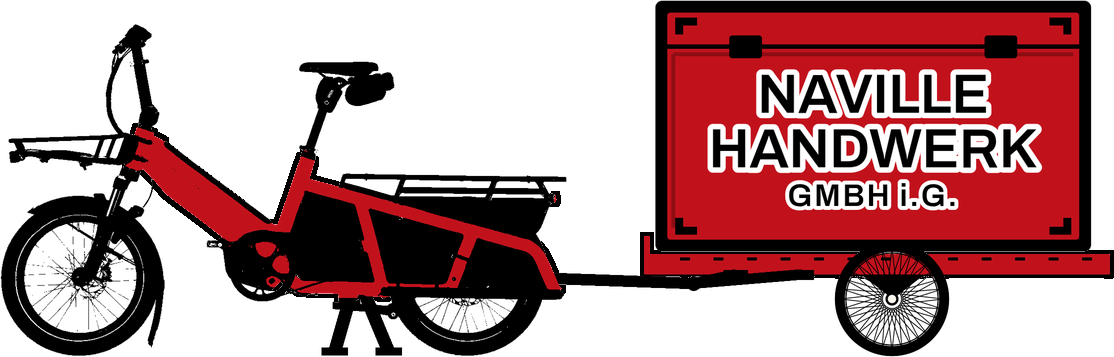
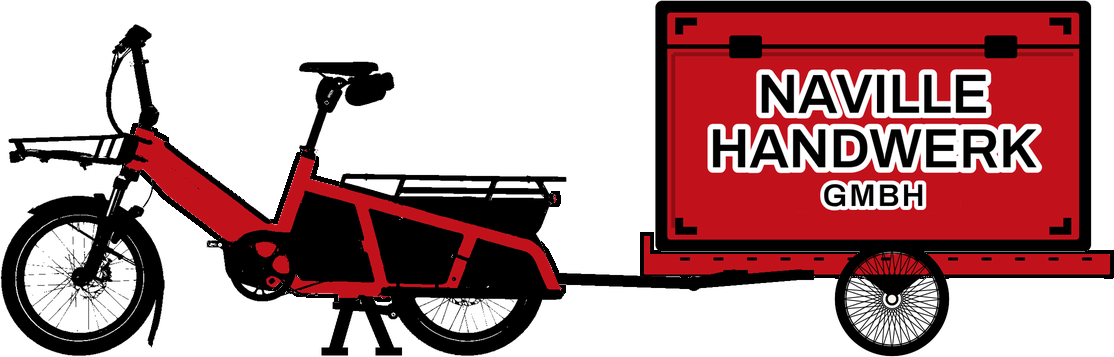
Gruendung vollzogen: i.G. ueberall entfernt (HR-Eintrag, Meldung Eric 2026-08-15)
Skript gruendung_ig_entfernen.py --apply (41 Stellen, 9 Dateien) plus die
Hand-Stellen: Impressum ohne Gruendungs-Vermerk, neu Handelsregister-Zeile +
UID CHE-334.176.319; index-Hero-Satz positiv umformuliert; FAQ
«Gruendungsphase» -> «Startphase»; Kopf-Emblem durch die i.G.-freie Fassung
ersetzt (1114x357, Quelle Design-Hub).

Changed region(s): [[0.702, 0.493, 0.8851, 0.6162]]

diff --git a/index.html b/index.html
@@ -1,7 +1,7 @@
 <!doctype html><html lang="de"><head><meta charset="utf-8">
 <meta name="viewport" content="width=device-width,initial-scale=1">
 <meta http-equiv="Content-Security-Policy" content="default-src 'self'; script-src 'self'; style-src 'self' 'unsafe-inline'; img-src 'self' data:; font-src 'self'; connect-src 'self'; object-src 'none'; base-uri 'self'; form-action 'self'">
-<title>Naville Handwerk GmbH i.G. – Kurzfristige Hilfe bei akutem Personalengpass</title>
+<title>Naville Handwerk GmbH – Kurzfristige Hilfe bei akutem Personalengpass</title>
 <meta name="description" content="Eric Naville, Elektroinstallateur EFZ – kurzfristige, verlässliche Aushilfe für Elektro- und Handwerksbetriebe im Raum Bern.">
 <link rel="stylesheet" href="basis.css">
 <style>
@@ -83,13 +83,13 @@
 <link rel="manifest" href="site.webmanifest">
 <meta name="theme-color" content="#EFEEE8">
 <meta property="og:type" content="website">
-<meta property="og:site_name" content="Naville Handwerk GmbH i.G.">
+<meta property="og:site_name" content="Naville Handwerk GmbH">
 <meta property="og:locale" content="de_CH">
-<meta property="og:title" content="Naville Handwerk GmbH i.G. – Kurzfristige Hilfe bei akutem Personalengpass">
+<meta property="og:title" content="Naville Handwerk GmbH – Kurzfristige Hilfe bei akutem Personalengpass">
 <meta property="og:description" content="Eric Naville, Elektroinstallateur EFZ – kurzfristige, verlässliche Aushilfe für Elektro- und Handwerksbetriebe im Raum Bern.">
 <meta property="og:url" content="https://naville-handwerk.ch/">
 <meta name="twitter:card" content="summary">
-<meta name="twitter:title" content="Naville Handwerk GmbH i.G. – Kurzfristige Hilfe bei akutem Personalengpass">
+<meta name="twitter:title" content="Naville Handwerk GmbH – Kurzfristige Hilfe bei akutem Personalengpass">
 <meta name="twitter:description" content="Eric Naville, Elektroinstallateur EFZ – kurzfristige, verlässliche Aushilfe für Elektro- und Handwerksbetriebe im Raum Bern.">
 <!-- Icons: Font Awesome Free (CC BY 4.0, fontawesome.com) · Bootstrap Icons (MIT) · Material Symbols (Apache-2.0). Schrift: Archivo (SIL OFL 1.1). -->
 </head>
@@ -113,7 +113,7 @@
     <div class="kick mono">Personalverleih im Handwerk · Raum Bern</div>
     <h1 class="disp">Grüesdi! Ich bin <span class="red">Eric Naville.</span></h1>
     <p class="lead">Gelernter Elektroinstallateur EFZ. Wenn dir kurzfristig eine Fachkraft fehlt, springe ich ein – top ausgerüstet, flexibel, ordentlich und zuverlässig.</p>
-    <p class="lead" style="font-size:15px;color:var(--grey);margin-top:-4px">Mein Betrieb, die <b>Naville Handwerk GmbH</b>, befindet sich aktuell noch in Gründung <b>(i.G.)</b>.</p>
+    <p class="lead" style="font-size:15px;color:var(--grey);margin-top:-4px">Mein Betrieb, die <b>Naville Handwerk GmbH</b>, ist im Handelsregister eingetragen.</p>
     <p class="slogan">Der <span class="red">Notstromer</span> für deine Elektrikerfirma.</p>
     <div class="ctas"><a class="btn red" href="#kontakt">Schreib mir</a><a class="btn ghost" href="#wann">Wann ich helfe</a></div>
   </div>
@@ -145,7 +145,7 @@
     </div>
     <div class="psarrow" aria-hidden="true"><svg class="brace" viewBox="0 0 24 100" preserveAspectRatio="none" fill="none"><path d="M7 3 C11 3 10.5 7 10.5 15 L10.5 42 C10.5 48 12 50 21 50 C12 50 10.5 52 10.5 58 L10.5 85 C10.5 93 11 97 7 97" stroke="#C1121C" stroke-width="2.6" stroke-linecap="round" stroke-linejoin="round" vector-effect="non-scaling-stroke"/></svg><svg class="downarr" viewBox="0 0 32 64" fill="none"><path d="M16 3 V54" stroke="#C1121C" stroke-width="5" stroke-linecap="round"/><path d="M5 42 L16 60 L27 42" stroke="#C1121C" stroke-width="5" stroke-linecap="round" stroke-linejoin="round"/></svg></div>
     <div class="solcol">
-      <div class="card sol"><div class="tx"><div class="t mono">Aushilfe</div><h3>Naville Handwerk GmbH i.G.</h3><p>Schnelle, unkomplizierte Entlastung.</p></div><div class="ic"><svg viewBox="-160 0 800 512" fill="none"><g stroke="#C1121C" stroke-width="20" stroke-linecap="round"><path d="M-150 150 H-30"/><path d="M-150 250 H10"/><path d="M-150 350 H-50"/></g><path fill="#22242A" d="M400 96a48 48 0 1 0 0-96 48 48 0 1 0 0 96zm27.2 64l-61.8-48.8c-17.3-13.6-41.7-13.8-59.1-.3l-83.1 64.2c-30.7 23.8-28.5 70.8 4.3 91.6L288 305.1 288 416c0 17.7 14.3 32 32 32s32-14.3 32-32l0-128c0-10.7-5.3-20.7-14.2-26.6L295 232.9l60.3-48.5L396 217c5.7 4.5 12.7 7 20 7l64 0c17.7 0 32-14.3 32-32s-14.3-32-32-32l-52.8 0zM56 384a72 72 0 1 1 144 0A72 72 0 1 1 56 384zm200 0A128 128 0 1 0 0 384a128 128 0 1 0 256 0zm184 0a72 72 0 1 1 144 0 72 72 0 1 1 -144 0zm200 0a128 128 0 1 0 -256 0 128 128 0 1 0 256 0z"/></svg></div></div>
+      <div class="card sol"><div class="tx"><div class="t mono">Aushilfe</div><h3>Naville Handwerk GmbH</h3><p>Schnelle, unkomplizierte Entlastung.</p></div><div class="ic"><svg viewBox="-160 0 800 512" fill="none"><g stroke="#C1121C" stroke-width="20" stroke-linecap="round"><path d="M-150 150 H-30"/><path d="M-150 250 H10"/><path d="M-150 350 H-50"/></g><path fill="#22242A" d="M400 96a48 48 0 1 0 0-96 48 48 0 1 0 0 96zm27.2 64l-61.8-48.8c-17.3-13.6-41.7-13.8-59.1-.3l-83.1 64.2c-30.7 23.8-28.5 70.8 4.3 91.6L288 305.1 288 416c0 17.7 14.3 32 32 32s32-14.3 32-32l0-128c0-10.7-5.3-20.7-14.2-26.6L295 232.9l60.3-48.5L396 217c5.7 4.5 12.7 7 20 7l64 0c17.7 0 32-14.3 32-32s-14.3-32-32-32l-52.8 0zM56 384a72 72 0 1 1 144 0A72 72 0 1 1 56 384zm200 0A128 128 0 1 0 0 384a128 128 0 1 0 256 0zm184 0a72 72 0 1 1 144 0 72 72 0 1 1 -144 0zm200 0a128 128 0 1 0 -256 0 128 128 0 1 0 256 0z"/></svg></div></div>
     </div>
   </div>
 </section>
@@ -193,7 +193,7 @@
   <img src="bilder/emblem.png" alt="Naville Handwerk – Lastenvelo mit Firmenschild">
   <p class="fc">Der <span class="red">Notstromer</span> für Berner Elektrikerfirmen</p>
 </div>
-<footer class="foot">Naville Handwerk GmbH i.G. · 3005 Bern · <a href="mailto:info@naville-handwerk.ch">info@naville-handwerk.ch</a><br>Personalverleih im Handwerk · Raum Bern · <a href="impressum.html">Impressum</a></footer>
+<footer class="foot">Naville Handwerk GmbH · 3005 Bern · <a href="mailto:info@naville-handwerk.ch">info@naville-handwerk.ch</a><br>Personalverleih im Handwerk · Raum Bern · <a href="impressum.html">Impressum</a></footer>
 <script src="verfuegbarkeit.js"></script>
 <script src="banner.js"></script>
 </body></html>

diff --git a/faq.html b/faq.html
@@ -1,8 +1,8 @@
 <!doctype html><html lang="de"><head><meta charset="utf-8">
 <meta name="viewport" content="width=device-width,initial-scale=1">
 <meta http-equiv="Content-Security-Policy" content="default-src 'self'; script-src 'self'; style-src 'self' 'unsafe-inline'; img-src 'self' data:; font-src 'self'; connect-src 'self'; object-src 'none'; base-uri 'self'; form-action 'self'">
-<title>Häufige Fragen – Naville Handwerk GmbH i.G.</title>
-<meta name="description" content="Antworten für Einsatzbetriebe: Versicherung, Abrechnung, Kosten, Steuern und was der Notstromer-Tarif ist – beim Personalverleih durch Naville Handwerk GmbH i.G., Raum Bern.">
+<title>Häufige Fragen – Naville Handwerk GmbH</title>
+<meta name="description" content="Antworten für Einsatzbetriebe: Versicherung, Abrechnung, Kosten, Steuern und was der Notstromer-Tarif ist – beim Personalverleih durch Naville Handwerk GmbH, Raum Bern.">
 <link rel="stylesheet" href="basis.css">
 <style>
 .phead{padding-block:60px 8px}
@@ -43,13 +43,13 @@ details[open] summary{color:var(--red)}
 <link rel="manifest" href="site.webmanifest">
 <meta name="theme-color" content="#EFEEE8">
 <meta property="og:type" content="website">
-<meta property="og:site_name" content="Naville Handwerk GmbH i.G.">
+<meta property="og:site_name" content="Naville Handwerk GmbH">
 <meta property="og:locale" content="de_CH">
-<meta property="og:title" content="Häufige Fragen – Naville Handwerk GmbH i.G.">
+<meta property="og:title" content="Häufige Fragen – Naville Handwerk GmbH">
 <meta property="og:description" content="Antworten für Einsatzbetriebe: Versicherung, Abrechnung, Kosten, Steuern und was der Notstromer-Tarif ist – Personalverleih, Raum Bern.">
 <meta property="og:url" content="https://naville-handwerk.ch/faq.html">
 <meta name="twitter:card" content="summary">
-<meta name="twitter:title" content="Häufige Fragen – Naville Handwerk GmbH i.G.">
+<meta name="twitter:title" content="Häufige Fragen – Naville Handwerk GmbH">
 <meta name="twitter:description" content="Antworten für Einsatzbetriebe: Versicherung, Abrechnung, Kosten, Steuern und was der Notstromer-Tarif ist – Personalverleih, Raum Bern.">
 </head>
 <body>
@@ -190,7 +190,7 @@ details[open] summary{color:var(--red)}
         <details>
           <summary>Kann ich einzelne Tage herauspicken – oder buche ich besser am Stück?</summary>
           <div class="a">
-            <p>Kannst du – reserviert wird ja nichts, du fragst und ich sage zu oder ab. Nur bin ich ehrlich mit dir: Ich stehe noch am Anfang. In der Gründungsphase meiner GmbH halte ich die Tarife bewusst tief und habe erst wenige Kontakte – darum bin ich darauf angewiesen, möglichst <b>regelmässig und zusammenhängend</b> zu arbeiten, um überhaupt auf genügend Umsatz zu kommen.</p>
+            <p>Kannst du – reserviert wird ja nichts, du fragst und ich sage zu oder ab. Nur bin ich ehrlich mit dir: Ich stehe noch am Anfang. In der Startphase meiner GmbH halte ich die Tarife bewusst tief und habe erst wenige Kontakte – darum bin ich darauf angewiesen, möglichst <b>regelmässig und zusammenhängend</b> zu arbeiten, um überhaupt auf genügend Umsatz zu kommen.</p>
             <p>Wenn einzelne Tage herausgepickt werden – Normaltarif oder Notstromer – und dazwischen viele Lücken bleiben, macht mir das gerade jetzt zu schaffen: Die Lücken lassen sich kaum füllen, weil es für Einsatzbetriebe wenig attraktiv ist, jemanden sehr unregelmässig zu beschäftigen. Ein paar Tage am Stück oder ein durchgehender Einsatz helfen mir deshalb im Moment am meisten.</p>
             <p>Das ist kein Muss – frag ruhig so, wie es dir passt. Und sobald ich mehr Kontakte oder etwas höhere Tarife habe, trägt sich auch das Herauspicken einzelner Tage für meinen Umsatz – dann sind verstreute Tage kein Thema mehr.</p>
           </div>
@@ -251,7 +251,7 @@ details[open] summary{color:var(--red)}
   <img src="bilder/emblem.png" alt="Naville Handwerk – Lastenvelo mit Anhänger und Firmenschild">
   <p class="fc">Der <span class="red">Notstromer</span> für Berner Elektrikerfirmen</p>
 </div>
-<footer class="foot">Naville Handwerk GmbH i.G. · 3005 Bern · <a href="mailto:info@naville-handwerk.ch">info@naville-handwerk.ch</a> · <a href="impressum.html">Impressum</a></footer>
+<footer class="foot">Naville Handwerk GmbH · 3005 Bern · <a href="mailto:info@naville-handwerk.ch">info@naville-handwerk.ch</a> · <a href="impressum.html">Impressum</a></footer>
 <script src="verfuegbarkeit.js"></script>
 <script src="banner.js"></script>
 </body></html>

diff --git a/leistungen.html b/leistungen.html
@@ -1,7 +1,7 @@
 <!doctype html><html lang="de"><head><meta charset="utf-8">
 <meta name="viewport" content="width=device-width,initial-scale=1">
 <meta http-equiv="Content-Security-Policy" content="default-src 'self'; script-src 'self'; style-src 'self' 'unsafe-inline'; img-src 'self' data:; font-src 'self'; connect-src 'self'; object-src 'none'; base-uri 'self'; form-action 'self'">
-<title>Was du von mir hast – Naville Handwerk GmbH i.G.</title>
+<title>Was du von mir hast – Naville Handwerk GmbH</title>
 <meta name="description" content="Was du von mir als Aushilfe im Handwerk hast – und was nicht. Transparent aufgelistet: Vorteile für deinen Betrieb und ehrliche Grenzen.">
 <link rel="stylesheet" href="basis.css">
 <style>
@@ -63,13 +63,13 @@
 <link rel="manifest" href="site.webmanifest">
 <meta name="theme-color" content="#EFEEE8">
 <meta property="og:type" content="website">
-<meta property="og:site_name" content="Naville Handwerk GmbH i.G.">
+<meta property="og:site_name" content="Naville Handwerk GmbH">
 <meta property="og:locale" content="de_CH">
-<meta property="og:title" content="Was du von mir hast – Naville Handwerk GmbH i.G.">
+<meta property="og:title" content="Was du von mir hast – Naville Handwerk GmbH">
 <meta property="og:description" content="Was du von mir als Aushilfe im Handwerk hast – und was nicht. Transparent aufgelistet.">
 <meta property="og:url" content="https://naville-handwerk.ch/leistungen.html">
 <meta name="twitter:card" content="summary">
-<meta name="twitter:title" content="Was du von mir hast – Naville Handwerk GmbH i.G.">
+<meta name="twitter:title" content="Was du von mir hast – Naville Handwerk GmbH">
 <meta name="twitter:description" content="Was du von mir als Aushilfe im Handwerk hast – und was nicht. Transparent aufgelistet.">
 <!-- Icons: Font Awesome Free (CC BY 4.0, fontawesome.com) · Bootstrap Icons (MIT) · Material Symbols (Apache-2.0). Schrift: Archivo (SIL OFL 1.1). -->
 </head>
@@ -142,7 +142,7 @@
       <div class="tsub">Damit du es vorher weisst</div>
       <ul class="tlist">
         <li><span class="mk">✗</span><span class="tx"><b>Der tiefe Ansatz ist ein Startpreis, kein Dauerversprechen.</b> Meine GmbH ist neu – darum steige ich bewusst günstig ein und liege für eine gelernte Fachkraft im Verleih am unteren Rand. Sobald der Betrieb steht, wird der Ansatz steigen. Wer dauerhaft die billigste Lösung sucht, ist bei mir also falsch; wer verlässliche Arbeit zu einem offen kalkulierten Preis sucht, richtig.</span></li>
-        <li><span class="mk">✗</span><span class="tx"><b>Strikt B2B.</b> Naville Handwerk GmbH i.G. verleiht nur an Betriebe – keine direkte Ausleihe an Endkunden.</span></li>
+        <li><span class="mk">✗</span><span class="tx"><b>Strikt B2B.</b> Naville Handwerk GmbH verleiht nur an Betriebe – keine direkte Ausleihe an Endkunden.</span></li>
         <li><span class="mk">✗</span><span class="tx"><b>Keine Zusatzausbildung</b> als Teamleiter oder Sicherheitsberater – ich bin die Fachkraft vor Ort, nicht eine Führungsrolle oder Kontrollorgan.</span></li>
         <li><span class="mk">✗</span><span class="tx"><b>Bevorzugt keine Lehrlingsbetreuung.</b> Gerade beim Notstromer geht es ums Vorankommen der Baustelle – da bin ich als zusätzliche Fachkraft eingesetzt, nicht als Ausbildner. Lehrlinge sind besser bei Bezugspersonen aufgehoben, die sie kennen und die für das Ausbilden ausgebildet sind.</span></li>
         <li><span class="mk">✗</span><span class="tx"><b>Kein eigenes Firmenfahrzeug.</b> Ich bringe nur Velo und Veloanhänger mit; Auto kann ich fahren (Kat. B) – für grössere Mengen Material oder weiter entfernte Baustellen braucht es also eines deiner Fahrzeuge.</span></li>
@@ -163,7 +163,7 @@
   <img src="bilder/emblem.png" alt="Naville Handwerk – Lastenvelo mit Anhänger und Firmenschild">
   <p class="fc">Der <span class="red">Notstromer</span> für Berner Elektrikerfirmen</p>
 </div>
-<footer class="foot">Naville Handwerk GmbH i.G. · 3005 Bern · <a href="mailto:info@naville-handwerk.ch">info@naville-handwerk.ch</a><br>Personalverleih im Handwerk · Raum Bern · <a href="impressum.html">Impressum</a></footer>
+<footer class="foot">Naville Handwerk GmbH · 3005 Bern · <a href="mailto:info@naville-handwerk.ch">info@naville-handwerk.ch</a><br>Personalverleih im Handwerk · Raum Bern · <a href="impressum.html">Impressum</a></footer>
 <script src="verfuegbarkeit.js"></script>
 <script src="banner.js"></script>
 </body></html>

diff --git a/impressum.html b/impressum.html
@@ -1,8 +1,8 @@
 <!doctype html><html lang="de"><head><meta charset="utf-8">
 <meta name="viewport" content="width=device-width,initial-scale=1">
 <meta http-equiv="Content-Security-Policy" content="default-src 'self'; script-src 'self'; style-src 'self' 'unsafe-inline'; img-src 'self' data:; font-src 'self'; connect-src 'self'; object-src 'none'; base-uri 'self'; form-action 'self'">
-<title>Impressum – Naville Handwerk GmbH i.G.</title>
-<meta name="description" content="Impressum und rechtliche Angaben der Naville Handwerk GmbH i.G., 3005 Bern.">
+<title>Impressum – Naville Handwerk GmbH</title>
+<meta name="description" content="Impressum und rechtliche Angaben der Naville Handwerk GmbH, 3005 Bern.">
 <link rel="stylesheet" href="basis.css">
 <style>
 .phead{padding-block:60px 6px}
@@ -27,14 +27,14 @@
 <link rel="manifest" href="site.webmanifest">
 <meta name="theme-color" content="#EFEEE8">
 <meta property="og:type" content="website">
-<meta property="og:site_name" content="Naville Handwerk GmbH i.G.">
+<meta property="og:site_name" content="Naville Handwerk GmbH">
 <meta property="og:locale" content="de_CH">
-<meta property="og:title" content="Impressum – Naville Handwerk GmbH i.G.">
-<meta property="og:description" content="Impressum und rechtliche Angaben der Naville Handwerk GmbH i.G., 3005 Bern.">
+<meta property="og:title" content="Impressum – Naville Handwerk GmbH">
+<meta property="og:description" content="Impressum und rechtliche Angaben der Naville Handwerk GmbH, 3005 Bern.">
 <meta property="og:url" content="https://naville-handwerk.ch/impressum.html">
 <meta name="twitter:card" content="summary">
-<meta name="twitter:title" content="Impressum – Naville Handwerk GmbH i.G.">
-<meta name="twitter:description" content="Impressum und rechtliche Angaben der Naville Handwerk GmbH i.G., 3005 Bern.">
+<meta name="twitter:title" content="Impressum – Naville Handwerk GmbH">
+<meta name="twitter:description" content="Impressum und rechtliche Angaben der Naville Handwerk GmbH, 3005 Bern.">
 </head>
 <body>
 <div class="availbar" id="availbar" hidden>
@@ -61,7 +61,7 @@
 
     <div class="icard">
       <h2>Verantwortlich / Firma</h2>
-      <p class="row"><b>Naville Handwerk GmbH i.G.</b> <span class="lbl">(in Gründung – Handelsregister-Eintrag ausstehend)</span></p>
+      <p class="row"><b>Naville Handwerk GmbH</b></p>
       <p class="row">Eric Naville (Inhaber und Geschäftsführer)</p>
       <p class="row"><span class="lbl">Sitz:</span> 3005 Bern, Schweiz</p>
       <p class="row"><span class="lbl">Strasse / Nr.:</span> <span class="todo">noch zu ergänzen</span></p>
@@ -75,7 +75,8 @@
 
     <div class="icard">
       <h2>Register &amp; Steuern</h2>
-      <p class="row"><span class="lbl">Handelsregister:</span> <span class="todo">UID/CHE-Nummer nach Eintrag ergänzen</span></p>
+      <p class="row"><span class="lbl">Handelsregister:</span> eingetragen (Handelsregisteramt des Kantons Bern)</p>
+      <p class="row"><span class="lbl">UID:</span> CHE-334.176.319</p>
       <p class="row"><span class="lbl">MWST-Nummer:</span> <span class="todo">nach Registrierung ergänzen (CHE-… MWST)</span></p>
       <p class="row"><span class="lbl">Zweck:</span> Personalverleih im Handwerk (Raum Bern)</p>
     </div>
@@ -94,7 +95,7 @@
 
     <div class="icard">
       <h2>Urheberrecht</h2>
-      <p>Texte, Grafiken und der Preisrechner auf dieser Seite stammen von Naville Handwerk GmbH i.G.. Weiterverwendung nur mit Einverständnis.</p>
+      <p>Texte, Grafiken und der Preisrechner auf dieser Seite stammen von Naville Handwerk GmbH. Weiterverwendung nur mit Einverständnis.</p>
     </div>
 
   </div>
@@ -104,7 +105,7 @@
   <img src="bilder/emblem.png" alt="Naville Handwerk – Lastenvelo mit Anhänger und Firmenschild">
   <p class="fc">Der <span class="red">Notstromer</span> für Berner Elektrikerfirmen</p>
 </div>
-<footer class="foot">Naville Handwerk GmbH i.G. · 3005 Bern · <a href="mailto:info@naville-handwerk.ch">info@naville-handwerk.ch</a> · <a href="index.html">Startseite</a></footer>
+<footer class="foot">Naville Handwerk GmbH · 3005 Bern · <a href="mailto:info@naville-handwerk.ch">info@naville-handwerk.ch</a> · <a href="index.html">Startseite</a></footer>
 <script src="verfuegbarkeit.js"></script>
 <script src="banner.js"></script>
 </body></html>

diff --git a/kalender.html b/kalender.html
@@ -1,7 +1,7 @@
 <!doctype html><html lang="de"><head><meta charset="utf-8">
 <meta name="viewport" content="width=device-width,initial-scale=1">
 <meta http-equiv="Content-Security-Policy" content="default-src 'self'; script-src 'self' 'unsafe-inline'; style-src 'self' 'unsafe-inline'; img-src 'self' data:; font-src 'self'; connect-src 'self'; object-src 'none'; base-uri 'self'; form-action 'self'">
-<title>Jahreskalender – Naville Handwerk GmbH i.G.</title>
+<title>Jahreskalender – Naville Handwerk GmbH</title>
 <meta name="description" content="Wann Eric Naville frei ist: freie Tage antippen und mit einem Klick per E-Mail anfragen. Kein Buchungssystem – du fragst, ich sage zu oder ab. Raum Bern.">
 <link rel="stylesheet" href="basis.css">
 <style>
@@ -86,13 +86,13 @@
 <link rel="manifest" href="site.webmanifest">
 <meta name="theme-color" content="#EFEEE8">
 <meta property="og:type" content="website">
-<meta property="og:site_name" content="Naville Handwerk GmbH i.G.">
+<meta property="og:site_name" content="Naville Handwerk GmbH">
 <meta property="og:locale" content="de_CH">
-<meta property="og:title" content="Jahreskalender – Naville Handwerk GmbH i.G.">
+<meta property="og:title" content="Jahreskalender – Naville Handwerk GmbH">
 <meta property="og:description" content="Wann Eric Naville frei ist: freie Tage antippen und per E-Mail anfragen. Kein Buchungssystem, Raum Bern.">
 <meta property="og:url" content="https://naville-handwerk.ch/kalender.html">
 <meta name="twitter:card" content="summary">
-<meta name="twitter:title" content="Jahreskalender – Naville Handwerk GmbH i.G.">
+<meta name="twitter:title" content="Jahreskalender – Naville Handwerk GmbH">
 <meta name="twitter:description" content="Wann Eric Naville frei ist: freie Tage antippen und per E-Mail anfragen. Kein Buchungssystem, Raum Bern.">
 </head>
 <body>
@@ -164,7 +164,7 @@
   <img src="bilder/emblem.png" alt="Naville Handwerk – Lastenvelo mit Anhänger und Firmenschild">
   <p class="fc">Der <span class="red">Notstromer</span> für Berner Elektrikerfirmen</p>
 </div>
-<footer class="foot">Naville Handwerk GmbH i.G. · 3005 Bern · <a href="mailto:info@naville-handwerk.ch">info@naville-handwerk.ch</a> · <a href="impressum.html">Impressum</a></footer>
+<footer class="foot">Naville Handwerk GmbH · 3005 Bern · <a href="mailto:info@naville-handwerk.ch">info@naville-handwerk.ch</a> · <a href="impressum.html">Impressum</a></footer>
 
 <script src="kalender.js"></script>
 <script src="verfuegbarkeit.js"></script>

diff --git a/preisrechner.html b/preisrechner.html
@@ -80,14 +80,14 @@ button{max-width:100%;white-space:normal}
 <link rel="manifest" href="site.webmanifest">
 <meta name="theme-color" content="#EFEEE8">
 <meta property="og:type" content="website">
-<meta property="og:site_name" content="Naville Handwerk GmbH i.G.">
+<meta property="og:site_name" content="Naville Handwerk GmbH">
 <meta property="og:locale" content="de_CH">
 <meta property="og:title" content="Stundenansatz-Rechner Personalverleih (Schweiz)">
-<meta property="og:description" content="Naville Handwerk GmbH i.G. – Personalverleih im Handwerk, Raum Bern.">
+<meta property="og:description" content="Naville Handwerk GmbH – Personalverleih im Handwerk, Raum Bern.">
 <meta property="og:url" content="https://naville-handwerk.ch/preisrechner.html">
 <meta name="twitter:card" content="summary">
 <meta name="twitter:title" content="Stundenansatz-Rechner Personalverleih (Schweiz)">
-<meta name="twitter:description" content="Naville Handwerk GmbH i.G. – Personalverleih im Handwerk, Raum Bern.">
+<meta name="twitter:description" content="Naville Handwerk GmbH – Personalverleih im Handwerk, Raum Bern.">
 </head>
 <body>
 <div class="availbar" id="availbar" hidden>
@@ -516,7 +516,7 @@ applyCanton();applyAge();fillBerufe();calc();
   <img src="bilder/emblem.png" alt="Naville Handwerk – Lastenvelo mit Anhänger und Firmenschild">
   <p class="fc">Der <span class="red">Notstromer</span> für Berner Elektrikerfirmen</p>
 </div>
-<footer class="foot">Naville Handwerk GmbH i.G. · 3005 Bern · <a href="mailto:info@naville-handwerk.ch">info@naville-handwerk.ch</a> · <a href="impressum.html">Impressum</a></footer>
+<footer class="foot">Naville Handwerk GmbH · 3005 Bern · <a href="mailto:info@naville-handwerk.ch">info@naville-handwerk.ch</a> · <a href="impressum.html">Impressum</a></footer>
 <script src="verfuegbarkeit.js"></script>
 <script src="banner.js"></script>
 </body>

diff --git a/404.html b/404.html
@@ -1,7 +1,7 @@
 <!doctype html><html lang="de"><head><meta charset="utf-8">
 <meta name="viewport" content="width=device-width,initial-scale=1">
 <meta http-equiv="Content-Security-Policy" content="default-src 'self'; script-src 'self'; style-src 'self' 'unsafe-inline'; img-src 'self' data:; font-src 'self'; connect-src 'self'; object-src 'none'; base-uri 'self'; form-action 'self'">
-<title>Seite nicht gefunden – Naville Handwerk GmbH i.G.</title>
+<title>Seite nicht gefunden – Naville Handwerk GmbH</title>
 <link rel="icon" type="image/svg+xml" href="favicon.svg">
 <link rel="icon" type="image/png" sizes="32x32" href="bilder/favicon-32.png">
 <link rel="apple-touch-icon" href="bilder/apple-touch-icon.png">
@@ -38,7 +38,7 @@ p{color:var(--ink2);font-size:16px;max-width:40ch;margin:0 auto}
     <a class="btn" href="/">Zur Startseite</a>
   </div>
 </div>
-<footer class="foot">Naville Handwerk GmbH i.G. · 3005 Bern · <a href="mailto:info@naville-handwerk.ch">info@naville-handwerk.ch</a></footer>
+<footer class="foot">Naville Handwerk GmbH · 3005 Bern · <a href="mailto:info@naville-handwerk.ch">info@naville-handwerk.ch</a></footer>
 <script src="verfuegbarkeit.js"></script>
 <script src="banner.js"></script>
 </body></html>

diff --git a/README.md b/README.md
@@ -1,6 +1,6 @@
 # naville-handwerk.ch — öffentliche Webseite
 
-Statischer Webauftritt der **Naville Handwerk GmbH i.G.** (Personalverleih im Handwerk, Raum Bern).
+Statischer Webauftritt der **Naville Handwerk GmbH** (Personalverleih im Handwerk, Raum Bern).
 Reines HTML/CSS/JS, kein Server nötig.
 
 > **Rolle in der `nhw_*`-Landschaft:** das **öffentliche** Repo (GitHub Pages) — nur
